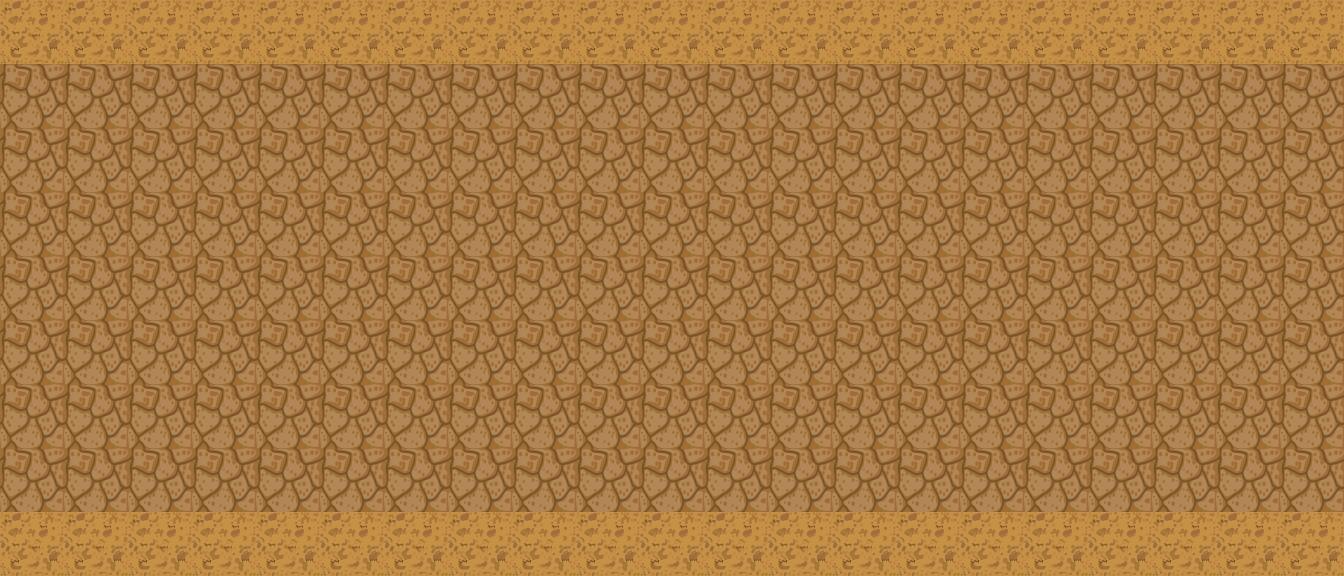
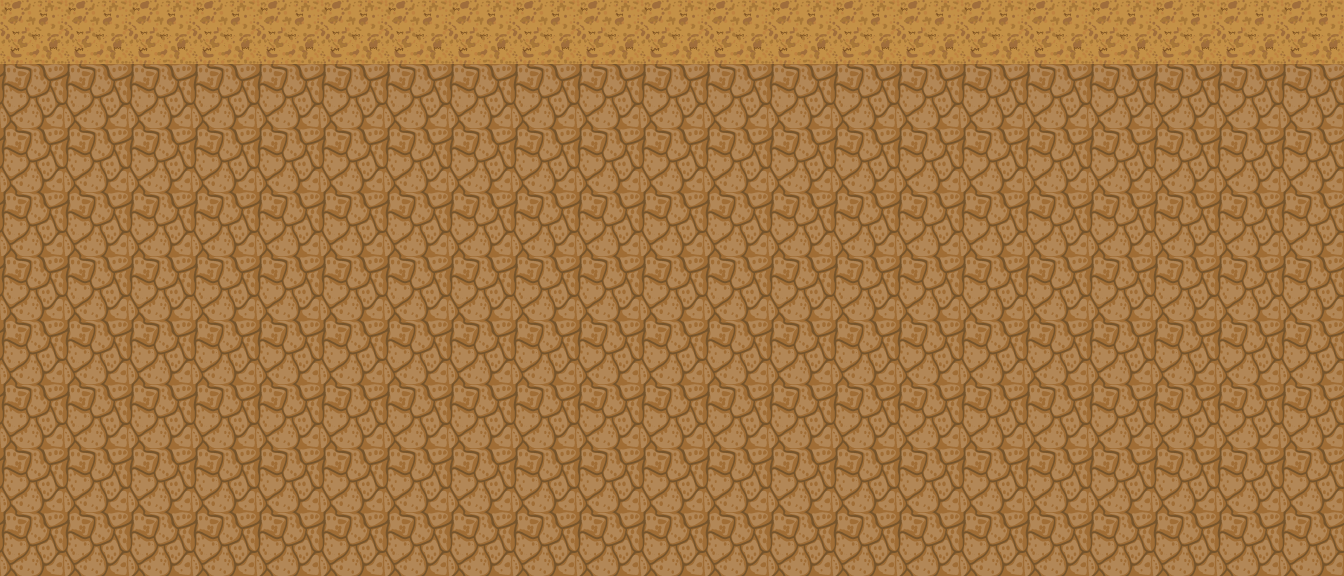
created tower and placed its animation and made changes to the map and enemy spwan rows to accomodate the changes to the map

Changed region(s): [[0.0, 0.875, 1.0, 1.0]]

diff --git a/src/towers.ts b/src/towers.ts
@@ -1,0 +1,74 @@
+import { gameSpeed } from "./game";
+
+
+
+const canvas1 = document.getElementById('canvas1') as HTMLCanvasElement;
+const ctx1 = canvas1.getContext('2d') as CanvasRenderingContext2D;
+
+
+class Tower {
+    height: number;
+    width: number;
+    x: number;
+    y: number;
+    firstFrame: number;
+    lastFrame: number;
+    frameX: number;
+    tower:HTMLImageElement;
+    eachWidth:number;
+    eachHeight:number;
+
+    constructor(height: number, width: number, x: number, y: number, firstFrame: number, lastFrame: number, frameX: number) {
+        this.height = height;
+        this.width = width;
+        this.x = x;
+        this.y = y;
+        this.firstFrame = firstFrame;
+        this.lastFrame = lastFrame;
+        this.frameX = frameX;
+        this.tower=new Image()
+        this.tower.src='./images/tower.png'
+        this.eachWidth=128
+        this.eachHeight=144
+    }
+
+    draw(){
+        if (gameSpeed % 12 === 0) {
+            // Update frameX to flap wings
+            if (this.frameX < this.lastFrame) {
+                this.frameX += 1;
+            } else {
+                this.frameX = this.firstFrame;
+            }
+        }
+        ctx1.drawImage(
+            this.tower,
+            this.eachWidth * this.frameX, 0,
+            this.eachWidth, this.eachHeight,
+            this.x, this.y,
+            this.width, this.height
+        );
+      
+
+
+
+    }
+
+   
+}
+
+// Create instances of the Tower class
+const towers: Tower[] = [
+    new Tower(128, 128, 0, 64, 0, 11, 0),   // Uses frames 0 to 3
+    new Tower(128, 128, 0, 192, 0, 11, 0),  // Uses frames 4 to 7
+    new Tower(128, 128, 0, 320, 0, 11, 0), // Uses frames 8 to 11
+    new Tower(128, 128, 0, 448, 0, 11, 0),// Uses frames 12 to 15
+   
+];
+
+export function drawTower(){
+towers.forEach(tower => {
+    tower.draw()
+});
+
+}

diff --git a/src/game.ts b/src/game.ts
@@ -5,6 +5,8 @@ import {  drawMandrake, updateMandrakes } from "./mandrake";
 
 import { drawVillan, spawnEnemy } from "./villans";
 import { chooseHero, drawDefenders } from "./heroes";
+import { drawTower } from "./towers";
+
 
 const canvas1 = document.getElementById('canvas1') as HTMLCanvasElement;
 const ctx1 = canvas1.getContext('2d') as CanvasRenderingContext2D;
@@ -46,8 +48,8 @@ class Gridcell {
 const grid: Gridcell[] = [];
 
 function makeTheGrid() {
-    for (let i = 64; i < canvas1.height - 64 ; i += gridCellHeight) {
-        for (let j = 0; j < canvas1.width; j += gridCellWidth) {
+    for (let i = 64; i < canvas1.height ; i += gridCellHeight) {
+        for (let j = 128; j < canvas1.width; j += gridCellWidth) {
             grid.push(new Gridcell(j, i)); // Replace with your initial tile image path
         }
     }
@@ -95,10 +97,11 @@ canvas1.addEventListener('mousemove', function(event) {
 function animate() {
    
     ctx1.clearRect(0, 0, canvas1.width, canvas1.height); 
+  
       chooseHero()
     drawTheGrid();
     showResources();
- 
+   
    drawDefenders()
     gameSpeed++
     drawVillan() 
@@ -107,8 +110,13 @@ function animate() {
     checkCollisions()
     collisionWithProjectile()
     
+  drawTower()
+   
     requestAnimationFrame(animate);
 }
+
+
+
 
 animate();
 setInterval(drawMandrake, 5000);

diff --git a/src/utils.ts b/src/utils.ts
@@ -66,7 +66,7 @@ function handleCollision(hero:any, enemy:any) {
                  // Remove the hero's position from occupiedGridPositions
                  occupiedGridPositions.delete(positionString);
                     
-                }, 1000); // Adjust as needed
+                }, 800); // Adjust as needed
             } else {
                 hero.state = 'idle';
             }
@@ -81,7 +81,7 @@ function handleCollision(hero:any, enemy:any) {
                 setTimeout(() => {
                     hero.speed=hero.moment
                     removeEntity(enemies, enemy);
-                }, 1000); // Adjust as needed
+                }, 800); // Adjust as needed
             }else {
                 enemy.state = 'idle';
             }
@@ -136,8 +136,8 @@ for (let i = 0; i < enemies.length; i++) {
 
             // Resume movement after a delay with speed 0.2
             setTimeout(() => {
-                enemy1.speed = 0.2;
-                enemy2.speed = 0.2;
+                enemy1.speed = enemy1.moment;
+                enemy2.speed = enemy2.moment;
             }, 1000); // Adjust delay as needed
         }
     }

diff --git a/src/villans.ts b/src/villans.ts
@@ -4,7 +4,7 @@ const canvas1 = document.getElementById('canvas1') as HTMLCanvasElement;
 const ctx1 = canvas1.getContext('2d') as CanvasRenderingContext2D;
 
 
-const ROW_COUNT = 7;
+const ROW_COUNT = 8;
 
 
 let enemytypes:any=[]
@@ -558,7 +558,7 @@ class Ghost extends Enemy {
 
 
 // Adjust these constants as needed
-const rows = [64,128,192,256,320,384,448,512]; // Define Y positions of each row
+const rows = [64,128,192,256,320,384,448,512,576]; // Define Y positions of each row
 
 const enemyTypeClasses = [
     // Blade, // Assuming Blade corresponds to enemytype[0]
@@ -589,8 +589,8 @@ export function spawnEnemy() {
         enemies.push(newEnemy);
         
         // Adjust spawn interval dynamically
-        if (spawnInterval > 1600) {
-            spawnInterval -= 50; // Decrease spawn interval by 200 milliseconds
+        if (spawnInterval > 1500) {
+            spawnInterval -= 500; // Decrease spawn interval by 200 milliseconds
           
             
         }

diff --git a/src/heroes.ts b/src/heroes.ts
@@ -470,7 +470,7 @@ canvas1.addEventListener('click', (event) => {
         });
     } else {
         // Check if y is within the valid range (not in the first or last row)
-        if (y >= 64 && y <= 512) {
+        if (y >= 64 && y <= 564 && x>=128) {
             // Special hero types that can be placed anywhere
             if (selectedCard.heroClass === HeroType3 || selectedCard.heroClass === HeroType4 || selectedCard.heroClass === HeroType5 || selectedCard.heroClass === HeroType6) {
                 const newHero = new selectedCard.heroClass(x, y);
@@ -503,7 +503,6 @@ canvas1.addEventListener('click', (event) => {
 
 export function drawDefenders(){
   
-    
         for(var i=0;i<=heroes.length-1;i++){
         heroes[i].heroMovement()
         heroes[i].draw(ctx1)

diff --git a/src/mandrake.ts b/src/mandrake.ts
@@ -97,8 +97,8 @@ function getRandomTilePosition() {
     const maxColumns = canvas1.width / gridCellWidth;
     const maxRows = canvas1.height / gridCellHeight;
 
-    const randomColumn = Math.floor(Math.random() * maxColumns);
-    const randomRow = Math.floor(Math.random() * (maxRows - 3)) + 1;
+    const randomColumn = Math.floor(Math.random() * (maxColumns - 2)) + 2;
+    const randomRow = Math.floor(Math.random() * (maxRows - 1)) + 1;
 
     const x = randomColumn * gridCellWidth;
     const y = randomRow * gridCellHeight;

diff --git a/src/projectiles.ts b/src/projectiles.ts
@@ -67,7 +67,7 @@ export class Projectile {
             
     
             // Check if the projectile has traveled 30 pixels from the fired position
-            if (Math.abs(this.x - this.firedPosition) >= 64*3.5) {
+            if (Math.abs(this.x - this.firedPosition) >= 64*2) {
                 removeEntity(projectiles, projectile);
             } else {
                 this.x += this.speed;
